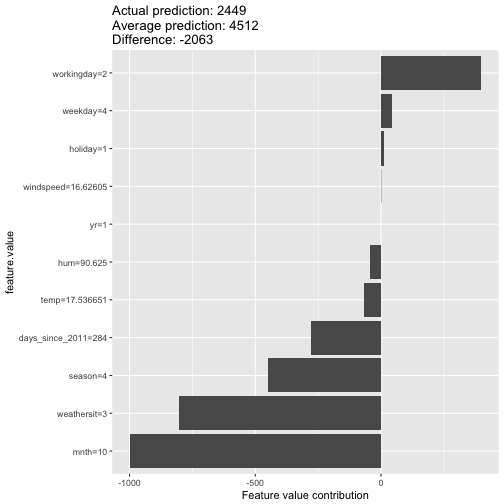
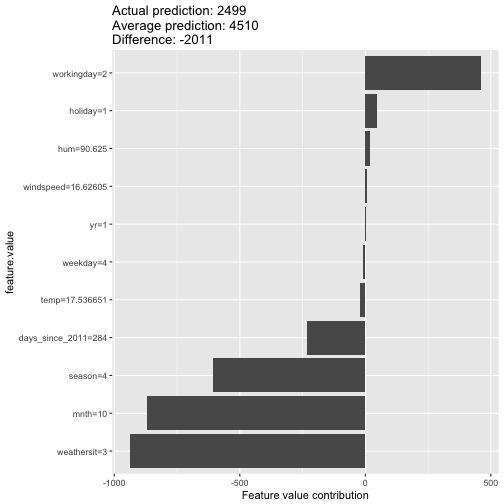
leanpub-tests

diff --git a/manuscript/05.6-agnostic-shapley.md b/manuscript/05.6-agnostic-shapley.md
@@ -54,7 +54,7 @@ The computation time increases exponentially with the number of features, so we 
 The Shapley value is the average over all the marginal contributions.
 Figure \@ref(fig:shapley-coalitions) shows all coalitions for computing the Shapley value of the 'cat-forbidden' feature value.
 When we repeat the Shapley value for all feature values, we get the complete distribution of the prediction (minus the average) among the feature values.
-![All coalitions of feature values that are needed to assess the Shapley value for 'cat-forbidden'. The first row shows the coalition without any feature values. The 2nd, 3rd and 4th row show different coalitions - separated by '|' - with increasing coalition size. For each of those coalitions we compute the predicted apartment price with and without the 'cat-forbidden' feature value and take the difference to get the marginal contribution. The Shapley value is the (weighted) average of marginal contributions. We replace the feature values of features that are not in a coalition with random feature values from the apartment dataset to get a prediction from the machine learning model.](./images/shapley-coalitions.jpg)
+![All coalitions of feature values that are needed to assess the Shapley value for 'cat-forbidden'. The first row shows the coalition without any feature values. The 2nd, 3rd and 4th row show different coalitions - separated by '|' - with increasing coalition size. For each of those coalitions we compute the predicted apartment price with and without the 'cat-forbidden' feature value and take the difference to get the marginal contribution. The Shapley value is the (weighted) average of marginal contributions. We replace the feature values of features that are not in a coalition with random feature values from the apartment dataset to get a prediction from the machine learning model.](./images/shapley-coalitions-smaller.jpg)
 
 
 
@@ -92,25 +92,25 @@ Figure \@ref(fig:shapley-cervical-plot) visualizes the Shapley values, that are 
 |STDs..Time.since.first.diagnosis |  1.00|
 |STDs..Time.since.last.diagnosis  |  1.00|
 
-![Feature value contributions for woman 326 in the cervical cancer dataset. With a prediction of 0.50, this woman's cancer probability is 0.47 above the average prediction of 0.03. The feature value that increased the probability the most is the number of diagnosed STDs. The feature contributions sum up to the difference of actual and average prediction (0.47).](images/shapley-cervical-plot-1.png)
+![Feature value contributions for woman 326 in the cervical cancer dataset. With a prediction of 0.70, this woman's cancer probability is 0.67 above the average prediction of 0.03. The feature value that increased the probability the most is the number of diagnosed STDs. The feature contributions sum up to the difference of actual and average prediction (0.67).](images/shapley-cervical-plot-1.png)
 
 |feature                          |        phi|
 |:--------------------------------|----------:|
-|Age                              |  0.0423333|
-|First.sexual.intercourse         |  0.0360000|
-|Hormonal.Contraceptives          |  0.0113333|
-|Hormonal.Contraceptives..years.  |  0.0306667|
-|IUD                              |  0.0023333|
-|IUD..years.                      |  0.0006667|
-|Num.of.pregnancies               |  0.0173333|
-|Number.of.sexual.partners        |  0.0713333|
-|STDs                             |  0.0406667|
-|STDs..Number.of.diagnosis        |  0.0953333|
-|STDs..Time.since.first.diagnosis |  0.0090000|
-|STDs..Time.since.last.diagnosis  | -0.0040000|
-|STDs..number.                    |  0.1103333|
-|Smokes                           | -0.0040000|
-|Smokes..years.                   | -0.0013333|
+|Age                              |  0.0406667|
+|First.sexual.intercourse         |  0.0796667|
+|Hormonal.Contraceptives          |  0.0106667|
+|Hormonal.Contraceptives..years.  |  0.0563333|
+|IUD                              | -0.0006667|
+|IUD..years.                      | -0.0023333|
+|Num.of.pregnancies               |  0.0693333|
+|Number.of.sexual.partners        |  0.0836667|
+|STDs                             |  0.1796667|
+|STDs..Number.of.diagnosis        |  0.0890000|
+|STDs..Time.since.first.diagnosis |  0.0070000|
+|STDs..Time.since.last.diagnosis  | -0.0003333|
+|STDs..number.                    |  0.0503333|
+|Smokes                           | -0.0020000|
+|Smokes..years.                   |  0.0020000|
 
 
 
@@ -137,22 +137,22 @@ Figure \@ref(fig:shapley-bike-plot) shows the explanations created for the  Rand
 |windspeed       |16.62605        |
 |days_since_2011 |284             |
 
-![Feature value contributions for instance 285. With a predicted 2449 rented bikes, this day is -2063 below the average prediction of 4512. The feature values that had the most negative effects were the weather situation, humidity and the time trend (years since 2011). The temperature on that day had a positive effect compared to the average prediction. The feature contributions sum up to the difference of actual and average prediction (-2063).](images/shapley-bike-plot-1.png)
+![Feature value contributions for instance 285. With a predicted 2499 rented bikes, this day is -2011 below the average prediction of 4510. The feature values that had the most negative effects were the weather situation, humidity and the time trend (years since 2011). The temperature on that day had a positive effect compared to the average prediction. The feature contributions sum up to the difference of actual and average prediction (-2011).](images/shapley-bike-plot-1.png)
 
 
 |feature         |     phi|
 |:---------------|-------:|
-|days_since_2011 | -448.04|
-|holiday         |    0.00|
-|hum             | -999.14|
-|mnth            |   13.29|
-|season          |   42.15|
-|temp            |  397.49|
-|weathersit      | -801.62|
-|weekday         |  -66.72|
-|windspeed       |  -44.07|
-|workingday      |    1.23|
-|yr              | -279.53|
+|days_since_2011 | -607.73|
+|holiday         |    4.22|
+|hum             | -869.33|
+|mnth            |   45.80|
+|season          |   -7.86|
+|temp            |  460.52|
+|weathersit      | -938.25|
+|weekday         |  -19.91|
+|windspeed       |   20.20|
+|workingday      |    5.82|
+|yr              | -233.94|
 
 Be careful to interpret the Shapley value correctly:
 The Shapley value is the average contribution of a feature value towards the prediction in different coalitions.

diff --git a/manuscript/01.2-short-stories.md b/manuscript/01.2-short-stories.md
@@ -8,7 +8,7 @@ If you want to be entertained and (de-)motivated, read on!
 The format is inspired by Jack Clark's Tech Tales in his [Import AI Newsletter](https://jack-clark.net/).
 If you like these kind of stories or are interested in AI, I recommend signing up.
 
-### Lightning Never Strikes Twice {-}
+### Lightning Never Strikes Twice
 
 **2030: A medical lab in Switzerland**
 
@@ -90,7 +90,7 @@ Nobody said anything for a minute or two.
 Lena lowered her head again and continued the analysis.
 "No Tom. It's a bug... Just some goddam bug".
 
-### Trust Fall {-}
+### Trust Fall
 
 **2050, A subway station in Singapore**
 
@@ -172,7 +172,7 @@ Her tax affinity system was eventually integrated into the trust system, but she
 
 
 
-### Fermi's Paperclips {-}
+### Fermi's Paperclips
 
 **Year 612 AMS (after mars settlement): A museum on Mars**
 

diff --git a/manuscript/index.md b/manuscript/index.md
@@ -2,7 +2,7 @@
 title: "Interpretable Machine Learning"
 subtitle: "A Guide for Making Black Box Models Explainable."
 author: "Christoph Molnar"
-date: "2018-03-12"
+date: "2018-03-24"
 knit: "bookdown::render_book"
 documentclass: krantz
 biblio-style: apalike
@@ -24,7 +24,7 @@ always_allow_html: yes
 
 
 
-# Preface {-}
+# Preface
 
 Machine learning has a huge potential to improve products, processes and research.
 But machines usually don't give an explanation for their predictions, which hurts trust and creates a barrier for the adoption of machine learning.

diff --git a/manuscript/07-references.md b/manuscript/07-references.md
@@ -1,1 +1,1 @@
-# References {-}
+# References
